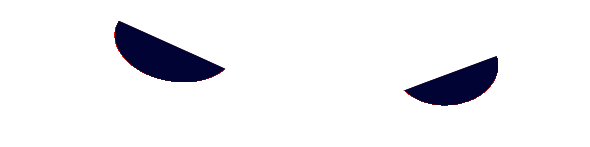
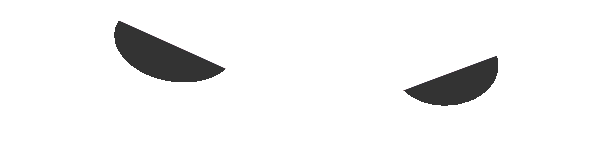
Add side nav. Reimagine hobbies section.

Changed region(s): [[0.1831, 0.1361, 0.3966, 0.5714], [0.6712, 0.381, 0.8542, 0.7347]]

diff --git a/public/css/app.less b/public/css/app.less
@@ -6,12 +6,51 @@ html, body {
   background: #D0E2E9;
   font-size: 100%;
   min-width: 320px;
+  overflow: hidden;
 }
 
 body {
   position: relative;
-  font-family: 'Lora', serif;
+  font-family: 'Ubuntu', serif;
 	background: #E9F5FA;
+}
+
+ul {
+  position: fixed;
+  left: 2%;
+  top: 50%;
+  height: 10%;
+  width: 15px;
+  margin-top: -5%;
+  li {
+    position: relative;
+    display: block;
+    margin: 15px 0;
+    span {
+      .border-radius(100%);
+      cursor: pointer;
+      display: block;
+      background: #FFF;
+      width: 15px;
+      height: 15px;
+      &.selected { background: #0679b2; }
+    }
+    p {
+      color: #FFF;
+      position: absolute;
+      width: 0px;
+      overflow: hidden;
+      left: 20px;
+      .transition(width .25s linear 1s);
+      &.selected { 
+        color: #0679b2;
+        width: 100px; 
+      }
+    }
+    &:hover p {
+      width: 100px;
+    }
+  }
 }
 
 section {
@@ -28,8 +67,7 @@ section {
   &#contact { background: #E2E2E2; }
   &#hobbies { background: #333; }
 
-  .scrollDown,
-  .scrollUp {
+  .scrollTo {
     cursor: pointer;
     position: absolute;
     bottom: 0;
@@ -45,7 +83,7 @@ section {
       color: #FFF;
     }
   }
-  .scrollUp { bottom: auto; top: 0; }
+  .top { bottom: auto; top: 0; }
 }
 
 #presentation {
@@ -216,32 +254,17 @@ section {
   .container {
     position: absolute;
     top: 50%;
-    margin: -125px 0 0;
+    margin: -175px 0 0;
     text-align: center;
-    height: 250px;
-    width: 80%;
-    padding: 0 10%;
-
-    figure {
-      .transition(all .5s ease-out);
-      width: 250px;
-      height: 250px;
-      right: -10%;
-      position: absolute;
-
-      &.slideLeft {
-        right: 60%;
-        .rotate(-360deg);
-      }
-    }
+    height: 350px;
+    width: 60%;
+    padding: 0 20%;
 
     header {
       font-family: 'Ubuntu', sans-serif;
-      display: inline-block;
-      vertical-align: middle;
-      text-align: right;
       .opacity(0);
-      width: 45%;
+      width: 70%;
+      margin: 0 auto;
       .transition(all 1.25s linear);
 
       &.show { .opacity(100); }
@@ -251,23 +274,31 @@ section {
         color: #FFF;
         line-height: 1.75em;
         font-size: 2em;
+        opacity: 0;
+        .transition(all 1.25s linear .5s);
       }
 
-      h2 { text-align: right; }
+      h2 { text-align: left; }
 
       h1 {
         font-size: 3em;
+        text-align: right;
+        .transition(all 1.25s linear 2.25s);
       }
+
+      &.show h1, 
+      &.show h2,
+      &.show .eyes { .opacity(100) }
     }
 
     .eyes {
-      background: url(/img/eyes.png);
-      background-size: 200px;
-      width: 200px;
-      height: 50px;
-      position: absolute;
-      right: 45%;
-      .transition(all 0.5s ease-in-out 3s)
+      background: url(/img/eyes.png) no-repeat;
+      background-size: 300px;
+      width: 300px;
+      height: 80px;
+      margin: 15% auto;
+      .opacity(0);
+      .transition(all 0.5s ease-in-out 2s)
     }
   }
 }

diff --git a/index.html b/index.html
@@ -27,21 +27,21 @@
           </h2>
         </header>
       </div>
-      <span class="scrollDown" href="#contact">&#8744;</span>
+      <span class="scrollTo" href="#contact">&#8744;</span>
     </section>
     <section id="contact">
-      <span class="scrollUp" href="#presentation">&#8743;</span>
+      <span class="scrollTo top" href="#presentation">&#8743;</span>
       <div class="container">
         <figure>
         </figure>
         <figure>
         </figure>
       </div>
-      <span class="scrollDown" href="#creation">&#8744;</span>
+      <span class="scrollTo" href="#creation">&#8744;</span>
     </section>
 
     <section id="creation">
-      <span class="scrollUp" href="#contact">&#8743;</span>
+      <span class="scrollTo top" href="#contact">&#8743;</span>
       <div class="container">
         <figure class="one"></figure>
         <span class="arrow_right one"></span>
@@ -49,11 +49,11 @@
         <span class="arrow_right two"></span>
         <figure class="three"></figure>
       </div>
-      <span class="scrollDown" href="#abilities">&#8744;</span>
+      <span class="scrollTo" href="#abilities">&#8744;</span>
     </section>
 
     <section id="abilities">
-      <span class="scrollUp" href="#creation">&#8743;</span>
+      <span class="scrollTo top" href="#creation">&#8743;</span>
       <div class="container">
         <div class="bar one">
           <span>Design</span>
@@ -68,25 +68,44 @@
           <span>Coolness</span>
         </div>
       </div>
-      <span class="scrollDown" href="#hobbies">&#8744;</span>
+      <span class="scrollTo" href="#hobbies">&#8744;</span>
     </section>
 
     <section id="hobbies">
-      <span class="scrollUp" href="#abilities">&#8743;</span>
+      <span class="scrollTo top" href="#abilities">&#8743;</span>
       <div class="container">
-        <figure>
-          <img src="/img/shuriken.png" width="250px"></img>
-        </figure>
         <header>
-          <h1>
-            In my spare time...
-          </h1>
           <h2>
-            I'm a freaking Ninja!
+            and in my spare time...
           </h2>
+          <div class="eyes"></div>
+          <h1>
+            I'm a freaking Ninja!
+          </h1>
         </header>
-        <div class="eyes"></div>
       </div>
     </section>
+    <ul>
+      <li>
+        <p>Presentation</p>
+        <span class="scrollTo" href="#presentation"></span>
+      </li>
+      <li>
+        <p>Contact</p>
+        <span class="scrollTo" href="#contact"></span>
+      </li>
+      <li>
+        <p>Creation</p>
+        <span class="scrollTo" href="#creation"></span>
+      </li>
+      <li>
+        <p>Abilities</p>
+        <span class="scrollTo" href="#abilities"></span>
+      </li>
+      <li>
+        <p>Hobbies</p>
+        <span class="scrollTo" href="#hobbies"></span>
+      </li>
+    </ul>
   </body>
 </html>

diff --git a/public/js/main.js b/public/js/main.js
@@ -48,12 +48,14 @@
 
         $('header').addClass('show');
 
-        // Docs sidebar list functionality.
-        $('.scrollDown, .scrollUp').click(function(){
+        $('.scrollTo').click(function(){
           // Scroll to the anchored section.
           $('html, body').animate({
             scrollTop: $( $.attr(this, 'href') ).offset().top
           }, 500);
+          $('.scrollTo, p').removeClass('selected');
+          $(this).addClass('selected');
+          $(this).prev().addClass('selected');
           return false;
         });
 
